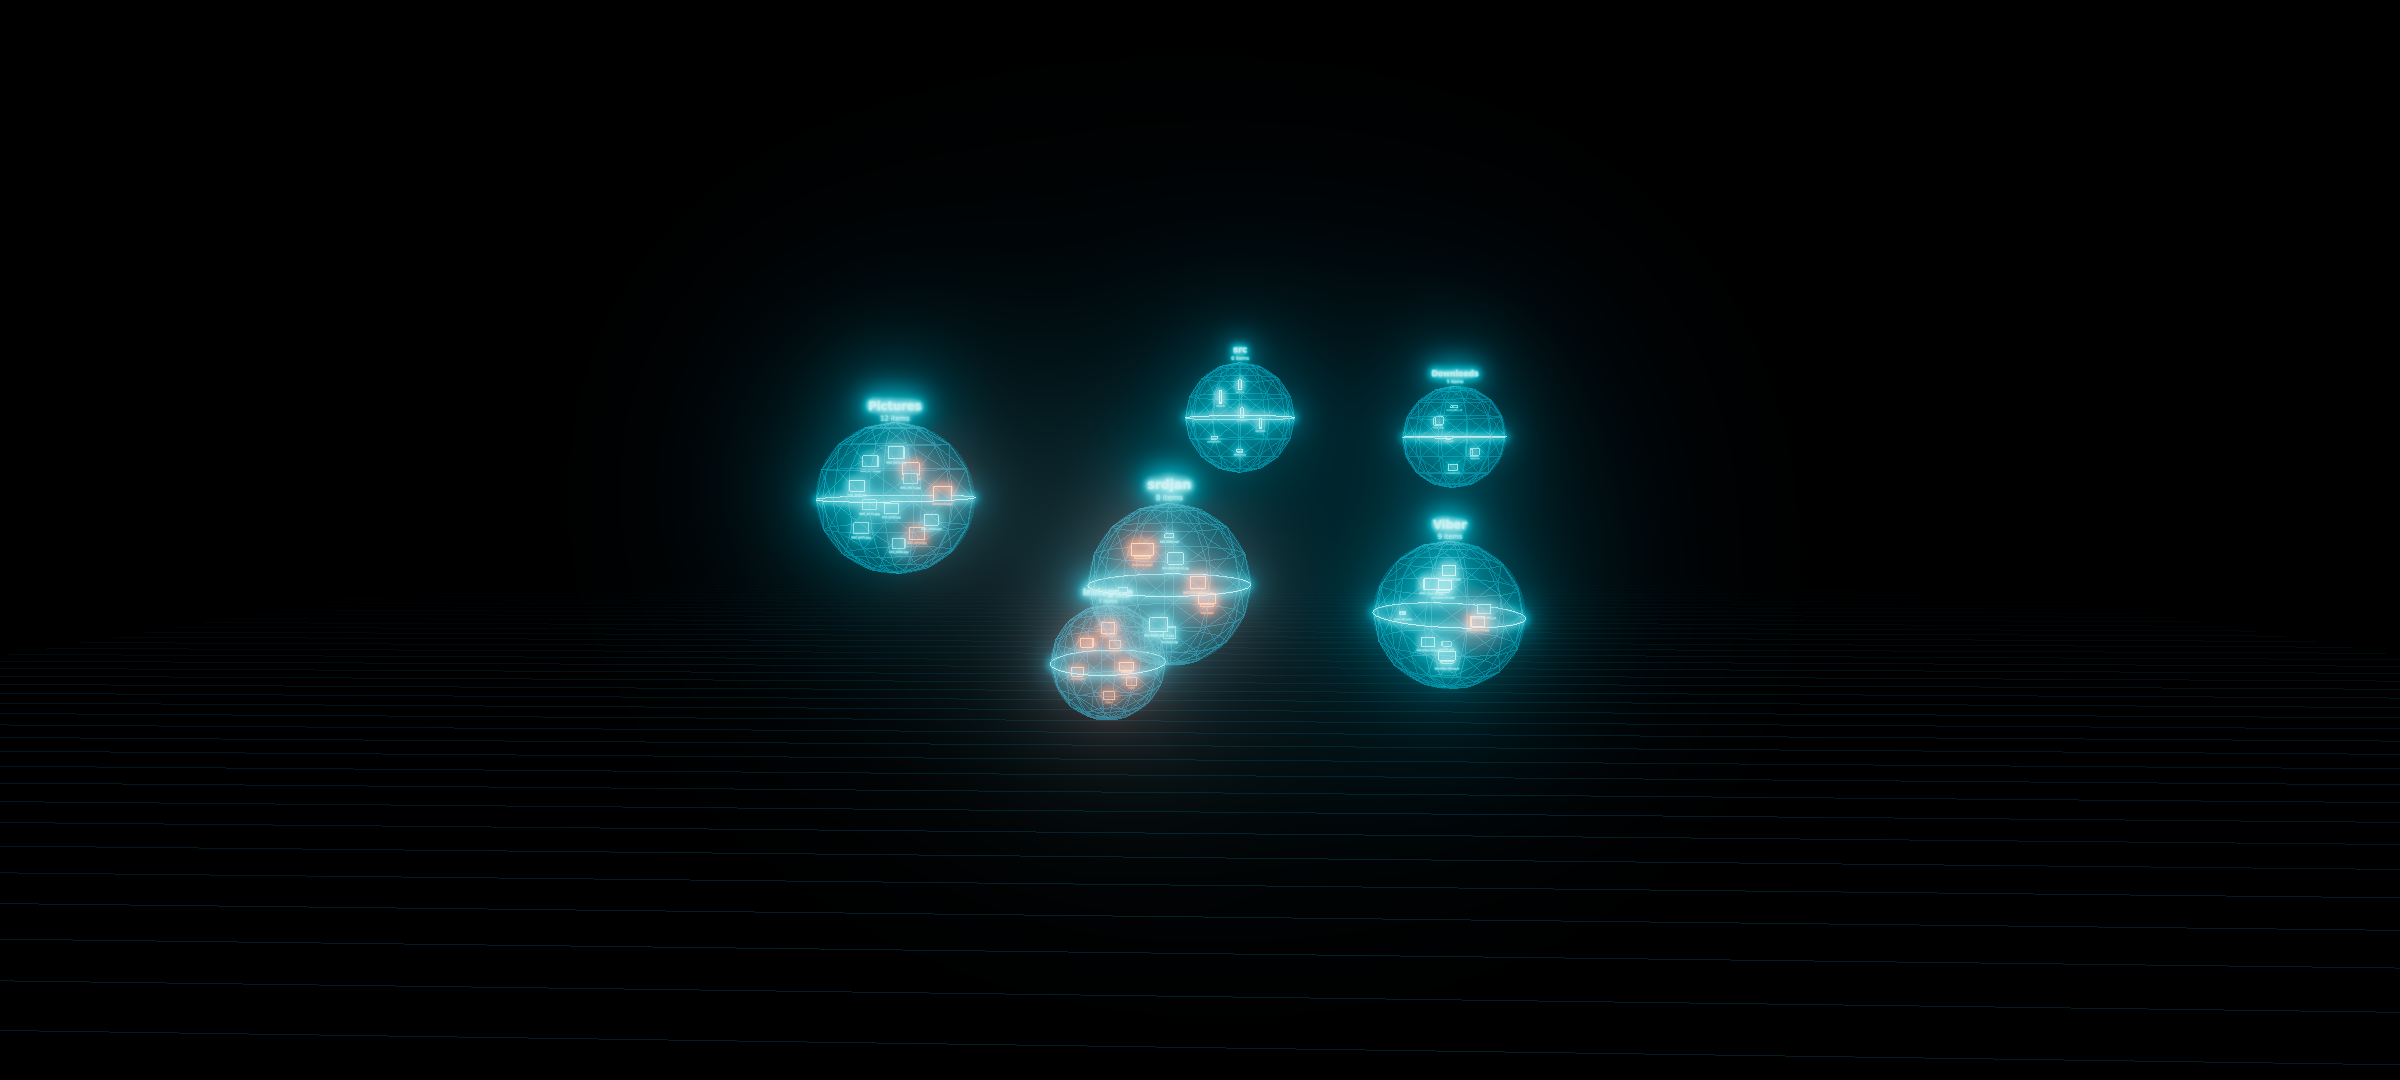
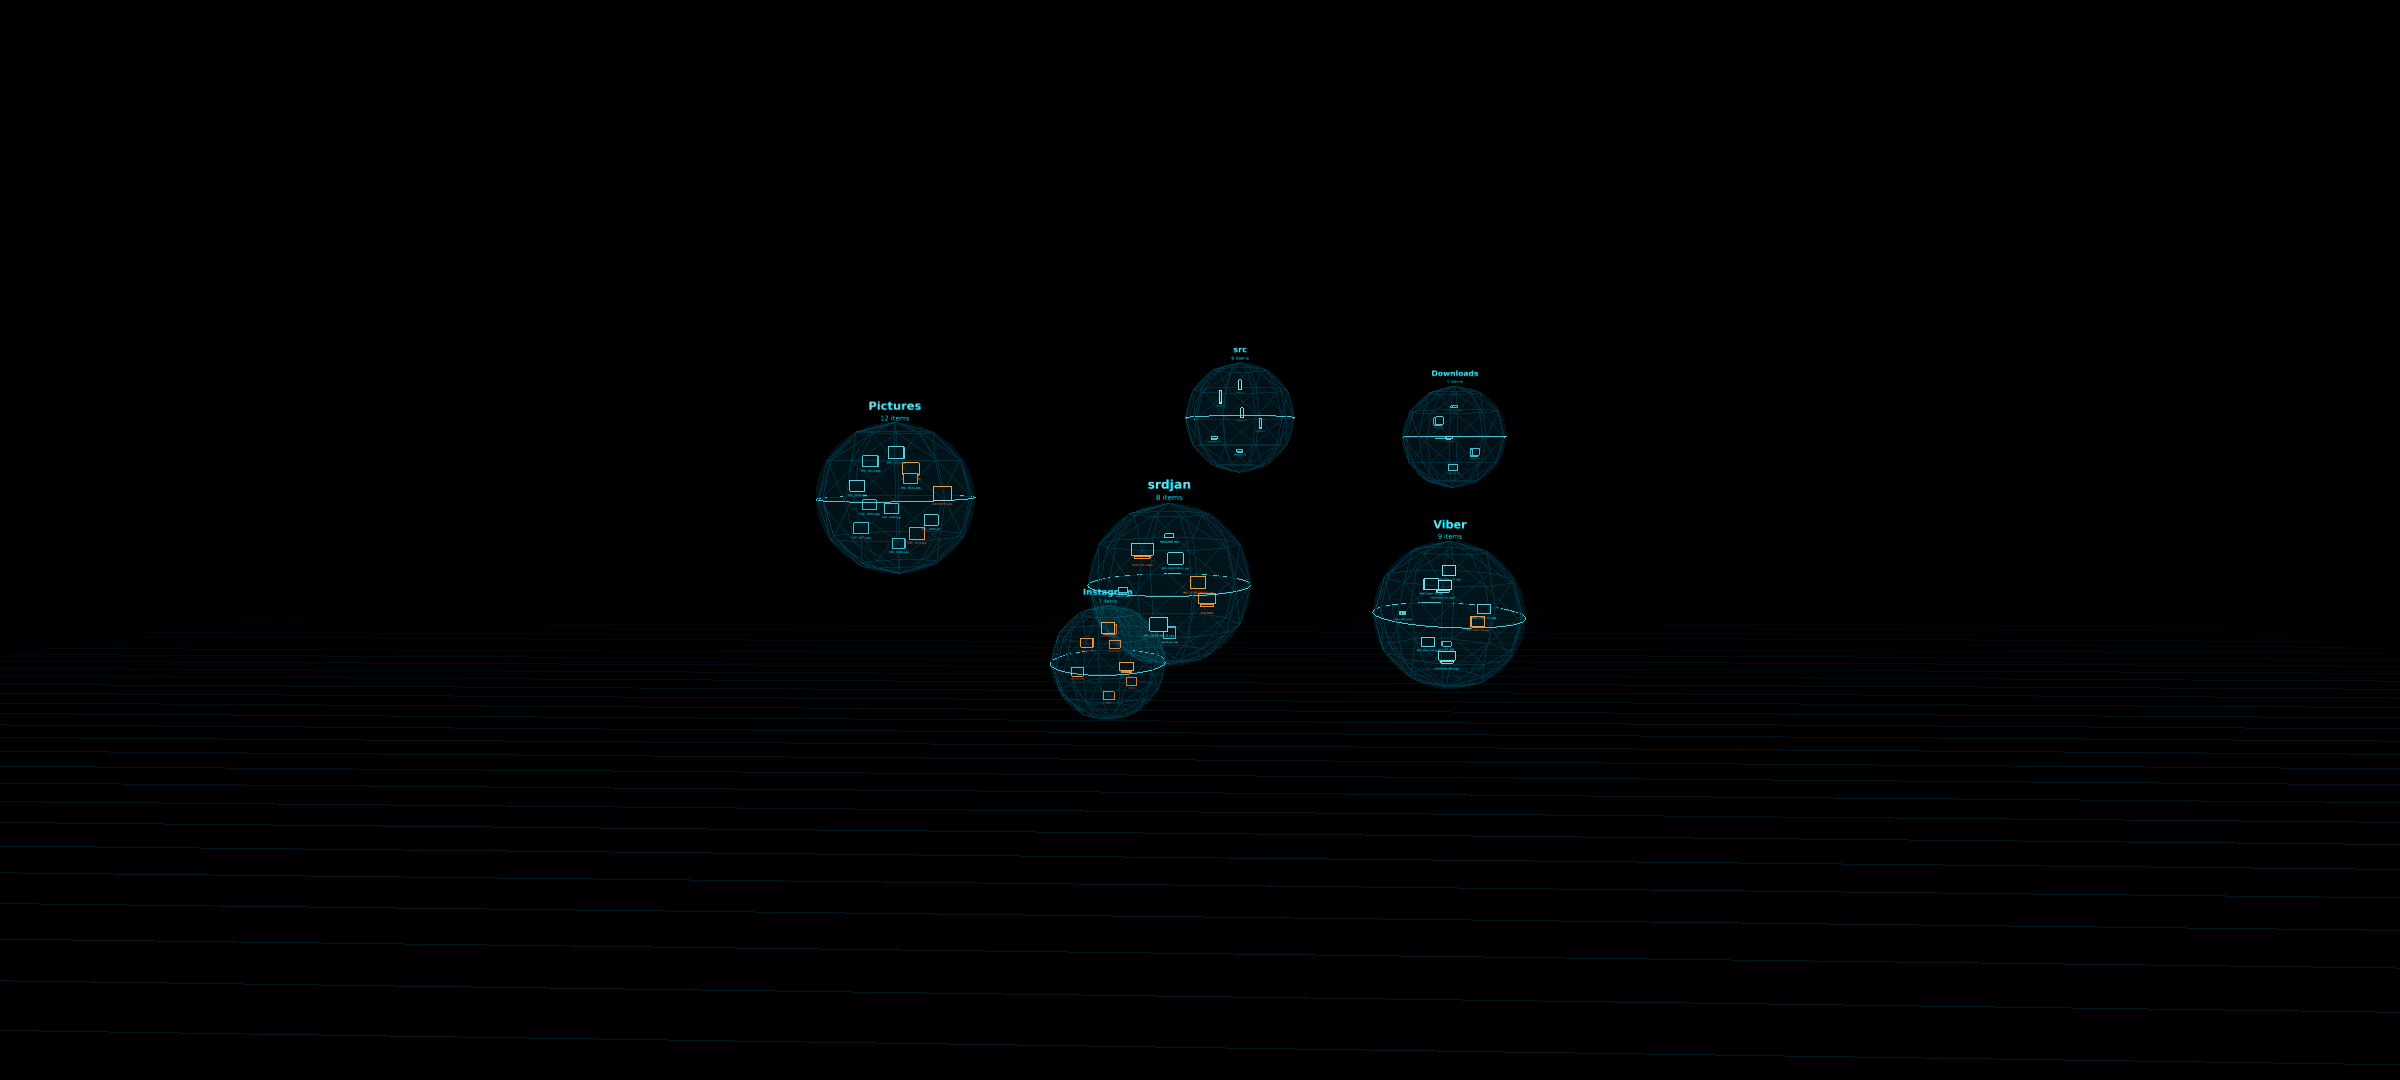
Sharper look, fainter sphere wireframes, back button as DOM overlay
Bloom reduced to a hint and text halos removed so edges stay crisp.
Sphere shells and wireframes are much fainter. The back button is now a
fixed HTML button at the bottom right instead of a mesh in the scene.
Spec Appendix B updated.

Claude-Session: https://claude.ai/code/session_01GyWjRg73JoJTmu3JobxKiQ

Changed region(s): [[0.3125, 0.275, 0.6875, 0.7028]]

diff --git a/prototype/default-world.html b/prototype/default-world.html
@@ -4,12 +4,19 @@
 <meta charset="utf-8">
 <meta name="viewport" content="width=device-width, initial-scale=1, viewport-fit=cover, user-scalable=no">
 <title>ioi default world</title>
-<style>html,body{margin:0;background:#000;overflow:hidden;overscroll-behavior:none}canvas{display:block;touch-action:none;-webkit-user-select:none;user-select:none}</style>
+<style>
+html,body{margin:0;background:#000;overflow:hidden;overscroll-behavior:none}
+canvas{display:block;touch-action:none;-webkit-user-select:none;user-select:none}
+#back{position:fixed;right:calc(20px + env(safe-area-inset-right,0px));bottom:calc(20px + env(safe-area-inset-bottom,0px));width:56px;height:56px;padding:0;border:1px solid #19e6ff;border-radius:50%;background:rgba(0,8,12,.55);color:#19e6ff;font:400 22px/1 system-ui,sans-serif;cursor:pointer;touch-action:manipulation;-webkit-tap-highlight-color:transparent}
+#back:active{background:rgba(25,230,255,.18)}
+#back[hidden]{display:none}
+</style>
 <script type="importmap">
 {"imports":{"three":"./node_modules/three/build/three.module.js","three/addons/":"./node_modules/three/examples/jsm/"}}
 </script>
 </head>
 <body>
+<button id="back" hidden aria-label="Back">&#x2039;</button>
 <script type="module">
 import * as THREE from 'three';
 import { EffectComposer } from 'three/addons/postprocessing/EffectComposer.js';
@@ -56,7 +63,7 @@ const renderer = new THREE.WebGLRenderer({ antialias: true, preserveDrawingBuffe
 renderer.setSize(W, H);
 renderer.setPixelRatio(1);
 renderer.toneMapping = THREE.ACESFilmicToneMapping;
-renderer.toneMappingExposure = 1.15;
+renderer.toneMappingExposure = 1.0;
 document.body.appendChild(renderer.domElement);
 
 const scene = new THREE.Scene();
@@ -80,7 +87,6 @@ function textPlane(lines, w, color = '#19e6ff') {
   const c = document.createElement('canvas'); c.width = 1024; c.height = 256;
   const ctx = c.getContext('2d'); ctx.clearRect(0, 0, c.width, c.height);
   ctx.textAlign = 'center'; ctx.textBaseline = 'middle'; ctx.fillStyle = color;
-  ctx.shadowColor = color; ctx.shadowBlur = 24;
   ctx.font = '700 96px "DejaVu Sans", Arial, sans-serif'; ctx.fillText(lines[0], 512, lines[1] ? 92 : 128);
   if (lines[1]) { ctx.font = '400 56px "DejaVu Sans", Arial, sans-serif'; ctx.globalAlpha = 0.85; ctx.fillText(lines[1], 512, 190); }
   const t = new THREE.CanvasTexture(c); t.colorSpace = THREE.SRGBColorSpace; t.anisotropy = 8;
@@ -97,7 +103,7 @@ function outlined(geo, lineColor, faceColor = FACE) {
 // ---------- items: shape by category, size by weight, colour by public, glow by heat ----------
 function itemMesh([name, cat, weight, pub, heat], u) {
   const base = pub ? ORANGE : CYAN;
-  const line = base.clone().multiplyScalar(0.7 + heat * 1.6);
+  const line = base.clone().multiplyScalar(0.55 + heat * 0.8);
   const g = new THREE.Group();
   let half = u;
   if (cat === 'image' || cat === 'carousel') {
@@ -128,10 +134,10 @@ for (const d of dirs) {
   const R = 3.2 + Math.sqrt(d.items.length) * 1.1;
   const g = new THREE.Group(); g.position.set(...d.at);
   // shell: faint fill (also the tap target) and a sparse wireframe
-  const fill = new THREE.Mesh(new THREE.SphereGeometry(R, 32, 24), new THREE.MeshBasicMaterial({ color: CYAN, transparent: true, opacity: 0.05, depthWrite: false }));
+  const fill = new THREE.Mesh(new THREE.SphereGeometry(R, 32, 24), new THREE.MeshBasicMaterial({ color: CYAN, transparent: true, opacity: 0.025, depthWrite: false }));
   fill.userData = { kind: 'dir', dir: d, R, group: g };
-  const wire = new THREE.LineSegments(new THREE.WireframeGeometry(new THREE.SphereGeometry(R, 12, 8)), new THREE.LineBasicMaterial({ color: DIM, transparent: true, opacity: 0.55 }));
-  const equator = new THREE.LineLoop(new THREE.BufferGeometry().setFromPoints(new THREE.EllipseCurve(0, 0, R, R, 0, Math.PI * 2, false, 0).getPoints(96).map(p => new THREE.Vector3(p.x, 0, p.y))), new THREE.LineBasicMaterial({ color: CYAN.clone().multiplyScalar(1.3) }));
+  const wire = new THREE.LineSegments(new THREE.WireframeGeometry(new THREE.SphereGeometry(R, 10, 6)), new THREE.LineBasicMaterial({ color: DIM, transparent: true, opacity: 0.16 }));
+  const equator = new THREE.LineLoop(new THREE.BufferGeometry().setFromPoints(new THREE.EllipseCurve(0, 0, R, R, 0, Math.PI * 2, false, 0).getPoints(96).map(p => new THREE.Vector3(p.x, 0, p.y))), new THREE.LineBasicMaterial({ color: CYAN, transparent: true, opacity: 0.6 }));
   fill.userData.wire = wire;
   g.add(fill, wire, equator);
   // label above the sphere, billboarded
@@ -172,20 +178,10 @@ function focusItem(m) {
 }
 function back() { const v = stack.pop(); if (v) zoomTo(v.pos, v.target); }
 
-// ---------- back button, drawn in the scene at the bottom right ----------
-const HUD_D = 1.0;
-const backBtn = new THREE.Group();
-const disk = new THREE.Mesh(new THREE.CircleGeometry(0.075, 40), new THREE.MeshBasicMaterial({ color: CYAN, transparent: true, opacity: 0.10, depthTest: false, depthWrite: false }));
-const ring = new THREE.Mesh(new THREE.RingGeometry(0.066, 0.075, 40), new THREE.MeshBasicMaterial({ color: CYAN, transparent: true, opacity: 0.9, depthTest: false, depthWrite: false }));
-const chevron = new THREE.Line(new THREE.BufferGeometry().setFromPoints([new THREE.Vector3(0.018, 0.032, 0), new THREE.Vector3(-0.018, 0, 0), new THREE.Vector3(0.018, -0.032, 0)]), new THREE.LineBasicMaterial({ color: CYAN.clone().multiplyScalar(1.8), depthTest: false }));
-for (const o of [disk, ring, chevron]) o.renderOrder = 999;
-backBtn.add(disk, ring, chevron); camera.add(backBtn);
-disk.userData = { kind: 'back' };
-function placeHud() {
-  const h = Math.tan(THREE.MathUtils.degToRad(camera.fov / 2)) * HUD_D, w = h * camera.aspect;
-  backBtn.position.set(w * 0.82, -h * 0.72, -HUD_D);
-  backBtn.visible = stack.length > 0;
-}
+// ---------- back button: a fixed overlay outside the scene ----------
+const backBtn = document.getElementById('back');
+backBtn.addEventListener('click', back);
+function placeHud() { backBtn.hidden = stack.length === 0; }
 
 // ---------- input: tap to zoom, drag to orbit the current target ----------
 const cv = renderer.domElement;
@@ -215,7 +211,6 @@ addEventListener('resize', () => { camera.aspect = innerWidth / innerHeight; cam
 function tap(x, y) {
   if (tween) return;
   ray.setFromCamera(new THREE.Vector2((x / innerWidth) * 2 - 1, -(y / innerHeight) * 2 + 1), camera);
-  if (backBtn.visible && ray.intersectObject(disk, false).length) return back();
   // items first, so a tap inside a focused sphere picks the item, not the shell
   const hitItems = ray.intersectObjects(items, true);
   if (hitItems.length) { let o = hitItems[0].object; while (o && o.userData.kind !== 'item') o = o.parent; if (o) return focusItem(o); }
@@ -226,7 +221,7 @@ function tap(x, y) {
 // ---------- bloom ----------
 const composer = new EffectComposer(renderer);
 composer.addPass(new RenderPass(scene, camera));
-composer.addPass(new UnrealBloomPass(new THREE.Vector2(W, H), 0.9, 0.55, 0.15));
+composer.addPass(new UnrealBloomPass(new THREE.Vector2(W, H), 0.22, 0.15, 0.7));   // a hint of bloom only; edges stay sharp
 composer.addPass(new OutputPass());
 
 window.__nav = () => ({ level: stack.length, pos: view.pos.toArray().map(v => +v.toFixed(2)), target: view.target.toArray().map(v => +v.toFixed(2)), zooming: !!tween });
@@ -244,8 +239,8 @@ function loop() {
   // fade the shell of the sphere the camera is inside, so it does not cross the focused item
   for (const f of spheres) {
     const inside = camera.position.distanceTo(f.userData.group.position) < f.userData.R * 1.05;
-    f.material.opacity += ((inside ? 0.0 : 0.05) - f.material.opacity) * 0.2;
-    f.userData.wire.material.opacity += ((inside ? 0.12 : 0.55) - f.userData.wire.material.opacity) * 0.2;
+    f.material.opacity += ((inside ? 0.0 : 0.025) - f.material.opacity) * 0.2;
+    f.userData.wire.material.opacity += ((inside ? 0.04 : 0.16) - f.userData.wire.material.opacity) * 0.2;
   }
   placeHud();
   composer.render();

diff --git a/SPEC.md b/SPEC.md
@@ -460,8 +460,9 @@ An alternative to drone flight, kept on the `tap-to-zoom` branch so the two can 
 
 - **Space, not rooms.** Every directory is a sphere floating in space, sized by its item count, with its items on a spiral inside at 0.6 of the radius. All spheres are visible from the start position, which is far out.
 - **Tap to zoom.** Tapping a sphere dollies the camera straight in to 2.6 radii from its centre in 0.5 seconds with ease-in-out. Tapping an item dollies to 4.5 item-radii from it. Items are raycast before shells, so a tap inside a focused sphere picks the item.
-- **Back.** A ring with a chevron at the bottom right, drawn in the scene and parented to the camera, appears whenever there is somewhere to go back to. Tapping it returns to the previous view with the same 0.5 second zoom. Escape and Backspace do the same on desktop.
+- **Back.** A round button fixed at the bottom right as a DOM overlay, outside the scene, appears whenever there is somewhere to go back to. Tapping it returns to the previous view with the same 0.5 second zoom. Escape and Backspace do the same on desktop. This branch treats navigation chrome as overlay, an exception to principle 4, which stays for metadata, annotations and the player.
 - **Orbit.** A drag orbits around the current focus target at the current distance. A tap is a press under 8 pixels of movement and under half a second.
 - **Shell fade.** The shell of the sphere the camera is inside fades so it does not cross the focused item.
+- **Look.** Sharp lines with only a hint of bloom, no text halo, and sphere wireframes kept faint so the items carry the picture.
 
 ![Tap to zoom, sphere focused](docs/tap-to-zoom-sphere.png)
